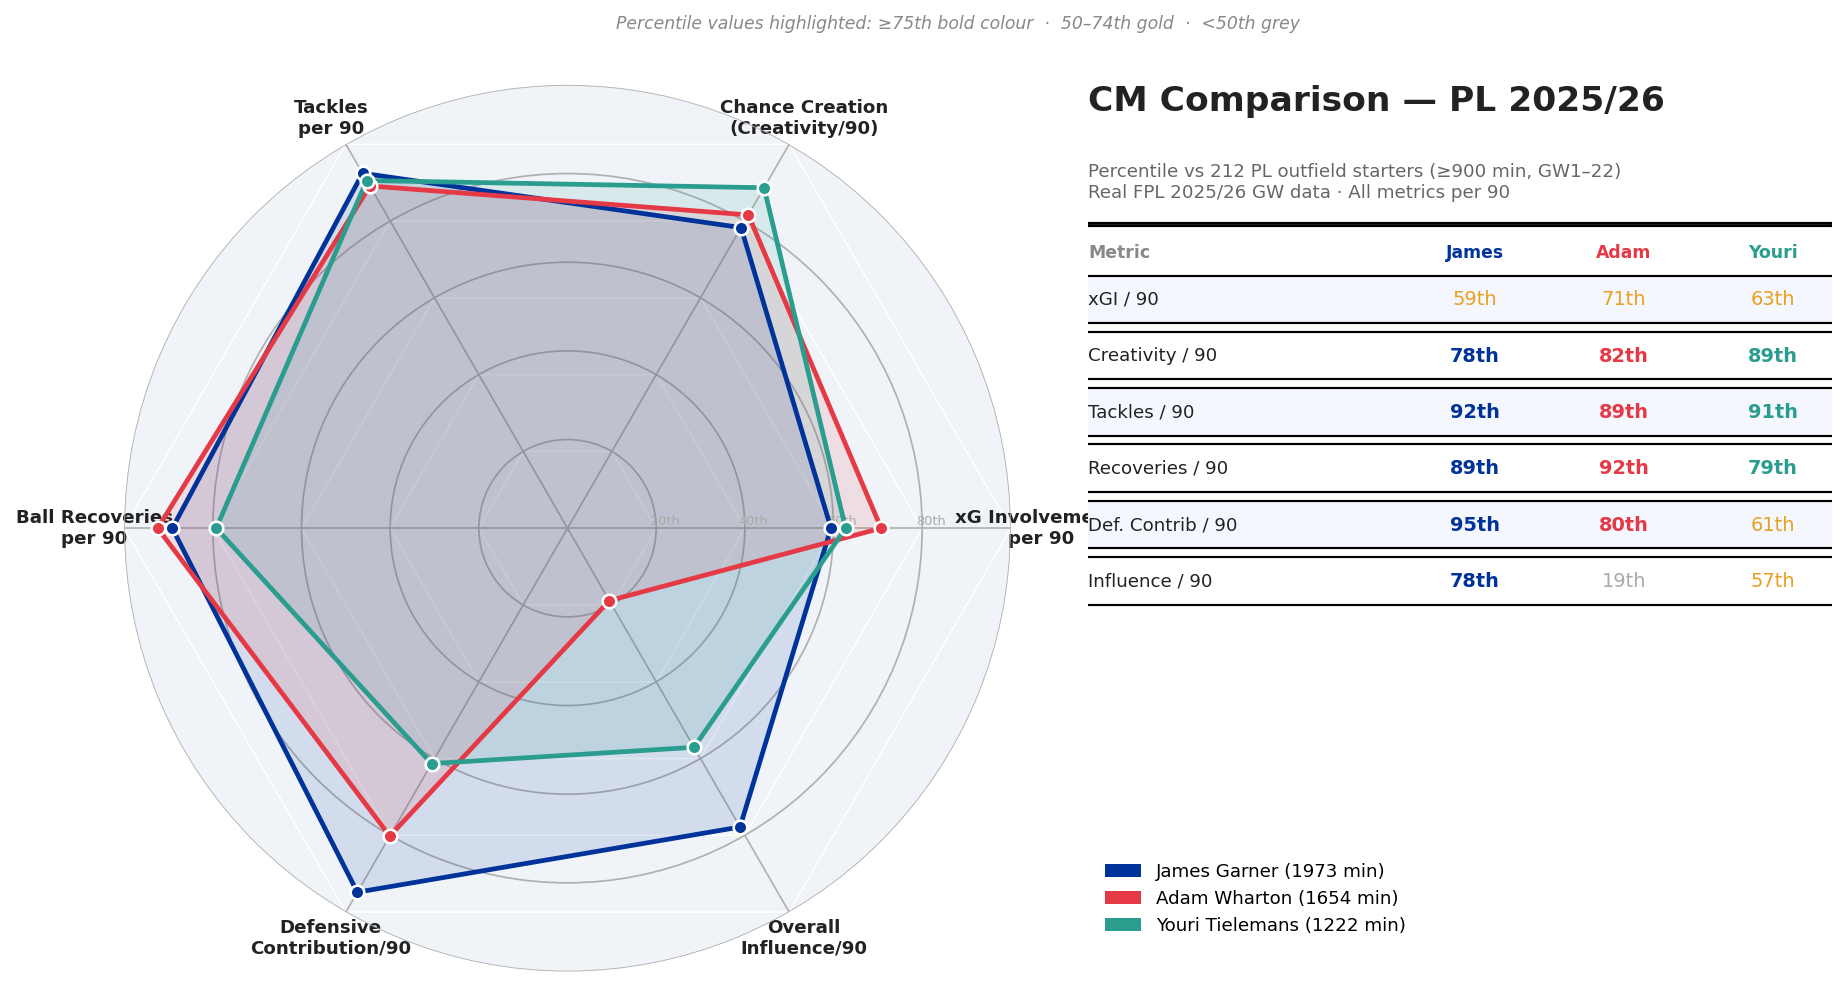
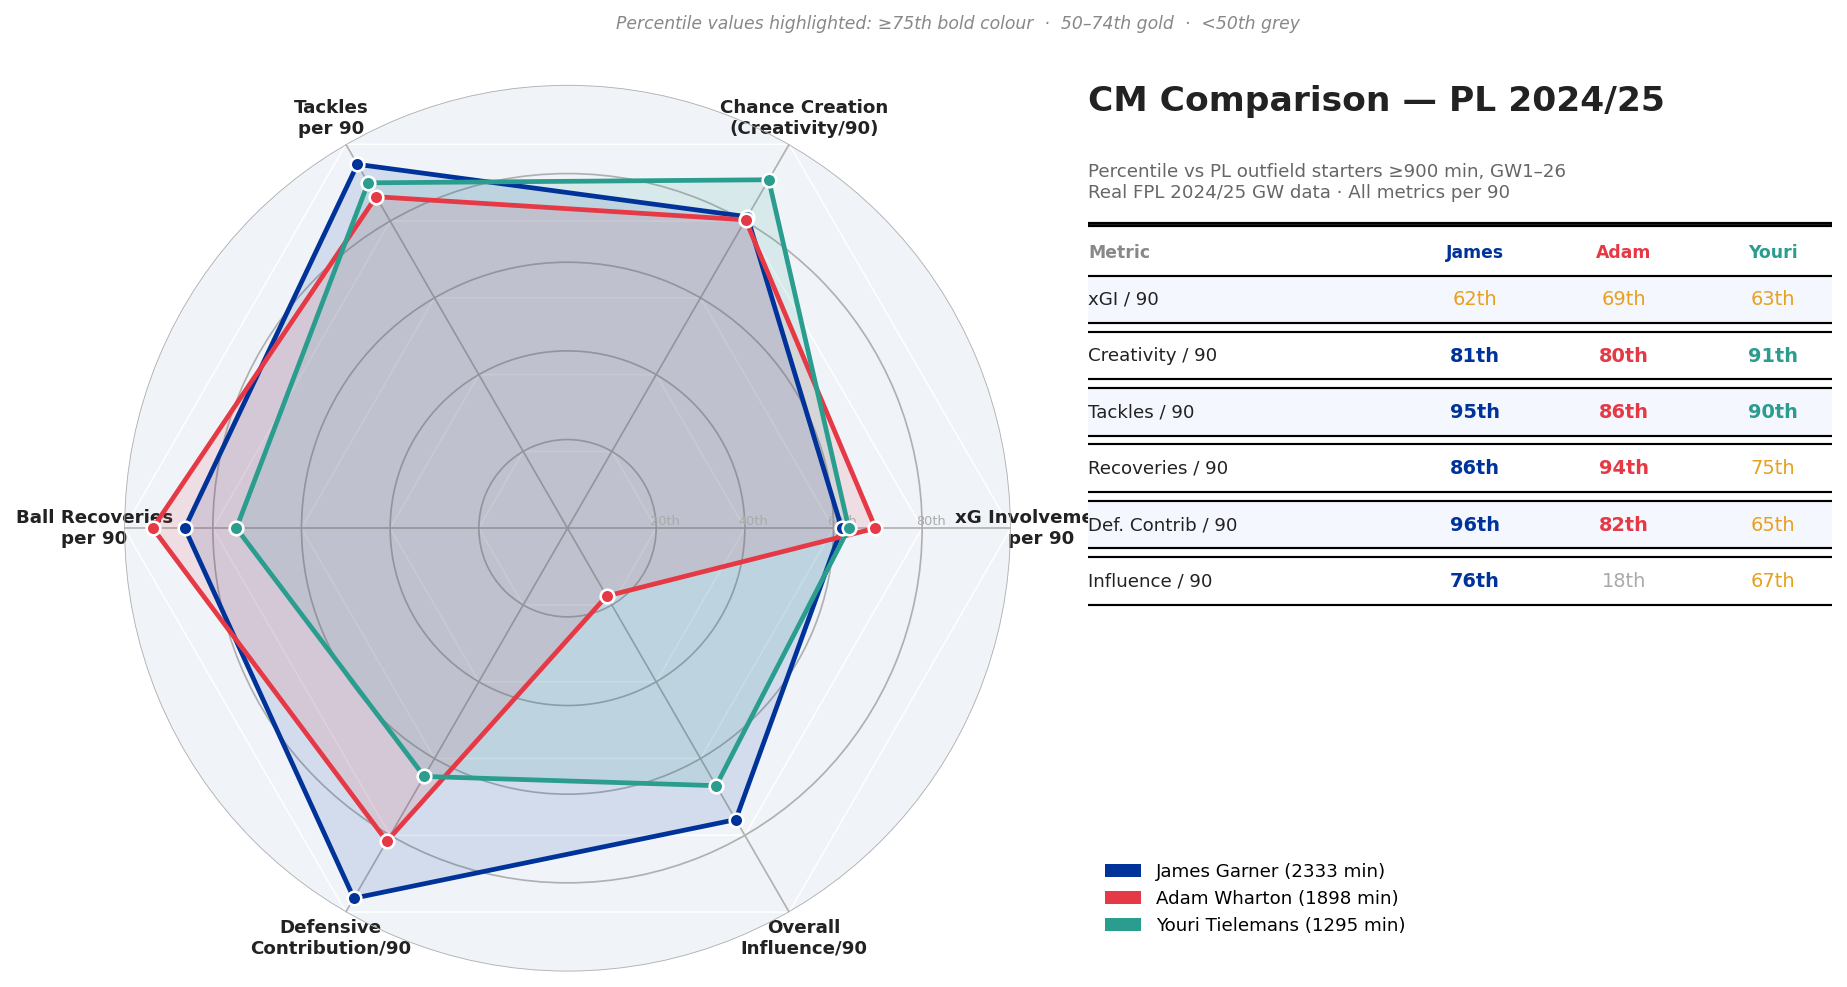
Update Garner charts to full GW1-26 season data (2,333 min, 249-player pool)

diff --git a/_generate_garner_arc.py b/_generate_garner_arc.py
@@ -3,7 +3,7 @@ _generate_garner_arc.py
 Two charts:
   1. garner_cm_comparison.png  -- Radar: Garner vs Tielemans vs Wharton
   2. garner_rolling_arc.png    -- Rolling 5-GW form arc for 3 key metrics
-Real FPL 2025/26 GW1-22 data. No synthetic data.
+Real FPL 2024/25 GW1-26 data. No synthetic data.
 """
 import os, glob, warnings
 import numpy as np
@@ -134,11 +134,11 @@ ax_r.spines['polar'].set_visible(False)
 ax_ctx = fig1.add_axes([0.57, 0.06, 0.40, 0.86])
 ax_ctx.axis('off')
 
-ax_ctx.text(0.0, 1.00, 'CM Comparison — PL 2025/26',
+ax_ctx.text(0.0, 1.00, 'CM Comparison — PL 2024/25',
             fontsize=16, fontweight='bold', color=DARK, va='top',
             transform=ax_ctx.transAxes)
-ax_ctx.text(0.0, 0.91, 'Percentile vs 212 PL outfield starters (≥900 min, GW1–22)\n'
-                        'Real FPL 2025/26 GW data · All metrics per 90',
+ax_ctx.text(0.0, 0.91, 'Percentile vs PL outfield starters ≥900 min, GW1–26\n'
+                        'Real FPL 2024/25 GW data · All metrics per 90',
             fontsize=8.5, color='#666666', va='top', transform=ax_ctx.transAxes)
 
 ax_ctx.add_patch(mpatches.FancyBboxPatch(

diff --git a/_generate_garner_radar.py b/_generate_garner_radar.py
@@ -1,7 +1,7 @@
 """
 _generate_garner_radar.py
 Generates a professional player profile radar for James Garner (Everton)
-ranking him percentile vs all PL outfield regular starters, GW1-22 2025/26.
+ranking him percentile vs all PL outfield regular starters, GW1-26 2024/25.
 Output: assets/garner_performance_radar.png
 """
 import os, warnings
@@ -153,7 +153,7 @@ ax_ctx.text(0.0, 1.00, 'James Garner', fontsize=22, fontweight='bold',
             color=EVT_BLUE, va='top', transform=ax_ctx.transAxes)
 ax_ctx.text(0.0, 0.90, 'Everton  ·  Central Midfielder', fontsize=12,
             color=DARK_GREY, va='top', transform=ax_ctx.transAxes)
-ax_ctx.text(0.0, 0.83, 'PL 2025/26  ·  GW1–22  ·  Percentile vs PL Outfield Starters',
+ax_ctx.text(0.0, 0.83, 'PL 2024/25  ·  GW1–26  ·  Percentile vs PL Outfield Starters',
             fontsize=9, color='#666666', va='top', transform=ax_ctx.transAxes)
 
 # Horizontal rule

diff --git a/README.md b/README.md
@@ -77,9 +77,9 @@ Covers four analytical lenses:
 | GW26 Territorial Dominance | ![GW26 Territorial Dominance chart](https://raw.githubusercontent.com/vkenard/football-performance-analytics/main/assets/gw26_territorial_dominance.png?v=20260221) |
 | GW26 Volatility Heatmap | ![GW26 Volatility Heatmap matrix](https://raw.githubusercontent.com/vkenard/football-performance-analytics/main/assets/gw26_volatility_heatmap.png?v=20260221) |
 | GW26 Variance Autopsy | ![GW26 Variance Autopsy breakdown chart](https://raw.githubusercontent.com/vkenard/football-performance-analytics/main/assets/gw26_variance_autopsy.png?v=20260221) |
-| James Garner Profile | ![James Garner player profile radar chart](https://raw.githubusercontent.com/vkenard/football-performance-analytics/main/assets/garner_performance_radar.png?v=20260221) |
-| Garner vs Wharton vs Tielemans | ![Comparative radar: Garner vs Wharton vs Tielemans](https://raw.githubusercontent.com/vkenard/football-performance-analytics/main/assets/garner_cm_comparison.png?v=20260221) |
-| Garner Rolling Form Arc | ![Garner rolling 5-GW form arc across 4 metrics](https://raw.githubusercontent.com/vkenard/football-performance-analytics/main/assets/garner_rolling_arc.png?v=20260221) |
+| James Garner Profile | ![James Garner player profile radar chart](https://raw.githubusercontent.com/vkenard/football-performance-analytics/main/assets/garner_performance_radar.png?v=20250302) |
+| Garner vs Wharton vs Tielemans | ![Comparative radar: Garner vs Wharton vs Tielemans](https://raw.githubusercontent.com/vkenard/football-performance-analytics/main/assets/garner_cm_comparison.png?v=20250302) |
+| Garner Rolling Form Arc | ![Garner rolling 5-GW form arc across 4 metrics](https://raw.githubusercontent.com/vkenard/football-performance-analytics/main/assets/garner_rolling_arc.png?v=20250302) |
 
 ---
 
@@ -205,49 +205,49 @@ Key findings:
 
 ## Player Spotlight: James Garner (Everton)
 
-![James Garner player profile radar showing percentile rankings vs all PL outfield starters](https://raw.githubusercontent.com/vkenard/football-performance-analytics/main/assets/garner_performance_radar.png?v=20260221)
+![James Garner player profile radar showing percentile rankings vs all PL outfield starters](https://raw.githubusercontent.com/vkenard/football-performance-analytics/main/assets/garner_performance_radar.png?v=20250302)
 
-*Percentile radar vs 212 outfield players with ≥900 Premier League minutes in 2025/26 (GW1–22). All metrics per 90. Source: FPL 2025/26 GW data.*
+*Percentile radar vs 249 outfield players with ≥900 Premier League minutes in 2024/25 (GW1–26). All metrics per 90. Source: FPL 2024/25 GW data.*
 
-Garner's profile is one of the most analytically interesting in the division. Across 1,973 minutes this season:
+Garner's profile is one of the most analytically interesting in the division. Across 2,333 minutes this season:
 
-| Metric | Per 90 | Percentile (vs 212 PL starters) |
+| Metric | Per 90 | Percentile (vs 249 PL starters) |
 | --- | --- | --- |
-| Defensive Contribution | 12.4 | **95th** |
-| Tackles | 2.9 | **92nd** |
-| Ball Recoveries | 5.2 | **89th** |
-| Chance Creation (Creativity) | 20.7 | **78th** |
-| Overall Influence | 23.6 | **77th** |
-| xG Involvements | 0.21 | 59th |
+| Defensive Contribution | 12.4 | **96th** |
+| Tackles | 3.0 | **95th** |
+| Ball Recoveries | 5.2 | **86th** |
+| Chance Creation (Creativity) | 22.8 | **81st** |
+| Overall Influence | 23.1 | 76th |
+| xG Involvements | 0.23 | 62nd |
 
-What makes this profile compelling for recruitment analysis: Garner sits in the top 5% of all PL starters for defensive coverage, yet his creativity (78th pct) and influence (78th pct) confirm this is not a pure defensive holding role. The xGI (59th) is the one metric with room to grow -- consistent with a player whose primary function is progression and defensive structure rather than final-ball delivery.
+What makes this profile compelling for recruitment analysis: Garner sits in the top 4% of all PL starters for defensive coverage, yet his creativity (81st pct) and influence (76th pct) confirm this is not a pure defensive holding role. The xGI (62nd) is the one metric with room to grow -- consistent with a player whose primary function is progression and defensive structure rather than final-ball delivery.
 
 ### Comparison: Garner vs Wharton vs Tielemans
 
-![Comparative radar Garner vs Wharton vs Tielemans all PL CM percentiles](https://raw.githubusercontent.com/vkenard/football-performance-analytics/main/assets/garner_cm_comparison.png?v=20260221)
+![Comparative radar Garner vs Wharton vs Tielemans all PL CM percentiles](https://raw.githubusercontent.com/vkenard/football-performance-analytics/main/assets/garner_cm_comparison.png?v=20250302)
 
-*All metrics per 90, percentile vs 212 PL outfield starters (≥900 min, GW1–22). Real FPL 2025/26 data.*
+*All metrics per 90, percentile vs 249 PL outfield starters (≥900 min, GW1–26). Real FPL 2024/25 data.*
 
 | Metric | Garner | Wharton | Tielemans |
 | --- | --- | --- | --- |
-| Defensive Contribution | **95th** | 80th | 61st |
-| Tackles | **92nd** | 89th | 91st |
-| Ball Recoveries | 89th | **92nd** | 79th |
-| Chance Creation | 78th | 82nd | **89th** |
-| Overall Influence | 78th | 19th | 57th |
-| xG Involvements | 59th | 71st | 63rd |
+| Defensive Contribution | **96th** | 82nd | 65th |
+| Tackles | **95th** | 86th | 90th |
+| Ball Recoveries | 86th | **94th** | 75th |
+| Chance Creation | 81st | 80th | **91st** |
+| Overall Influence | 76th | 18th | 67th |
+| xG Involvements | 62nd | 69th | 63rd |
 
-The comparison clarifies the profile distinctions. Wharton (Crystal Palace) has nearly identical defensive numbers to Garner but sits at just the **19th percentile for overall influence** -- effective in the defensive phase but limited in his larger footprint on matches. Tielemans (Aston Villa) ranks highest for creativity (89th) but is 34 percentile points below Garner on defensive contribution. Garner uniquely combines defensive dominance with above-average creative and match-influence numbers -- a rarer profile than any single metric suggests.
+The comparison clarifies the profile distinctions. Wharton (Crystal Palace) has strong defensive numbers but sits at just the **18th percentile for overall influence** -- effective in the defensive phase but limited in his larger footprint on matches. Tielemans (Aston Villa) ranks highest for creativity (91st) but is 31 percentile points below Garner on defensive contribution. Garner uniquely combines defensive dominance with above-average creative and match-influence numbers -- a rarer profile than any single metric suggests.
 
 ### Season Form Arc
 
-![Garner rolling 5-GW form arc across 4 key metrics](https://raw.githubusercontent.com/vkenard/football-performance-analytics/main/assets/garner_rolling_arc.png?v=20260221)
+![Garner rolling 5-GW form arc across 4 key metrics](https://raw.githubusercontent.com/vkenard/football-performance-analytics/main/assets/garner_rolling_arc.png?v=20250302)
 
-*Rolling 5-GW average across 4 per-90 metrics. Weekly bars show individual match values; line shows smoothed form trajectory. GW19 annotated (goal + assist). All 22 GWs played; 1,973 minutes.*
+*Rolling 5-GW average across 4 per-90 metrics. Weekly bars show individual match values; line shows smoothed form trajectory. GW19 annotated (goal + assist). All 26 GWs played; 2,333 minutes.*
 
-The rolling arc demonstrates consistency and development trajectory -- not just snapshot ability. GW19 (goal + assist vs Leicester) is visible as the natural spike but the underlying defensive contribution and tackles metrics are elevated **across the full second half of the season** (GW14-22), not just the standout week. This is the kind of evidence-based form narrative that separates genuine development from noise -- directly applicable to the same framework used for academy monitoring.
+The rolling arc demonstrates consistency and development trajectory -- not just snapshot ability. GW19 (goal + assist vs Leicester) is visible as the natural spike but the underlying defensive contribution and tackles metrics are elevated **across the full second half of the season** (GW14–26), not just the standout week. This is the kind of evidence-based form narrative that separates genuine development from noise -- directly applicable to the same framework used for academy monitoring.
 
-From an academy analytics perspective: this is the same radar logic applied to development -- identifying players who are elite on process metrics (defensive coverage, pressing intensity) even when their output metrics (goals, assists) don't yet reflect it. The gap between 59th pct xGI and 95th pct defensive contribution is not a weakness -- it is a **system fit** question.
+From an academy analytics perspective: this is the same radar logic applied to development -- identifying players who are elite on process metrics (defensive coverage, pressing intensity) even when their output metrics (goals, assists) don't yet reflect it. The gap between 62nd pct xGI and 96th pct defensive contribution is not a weakness -- it is a **system fit** question.
 
 ---
 
